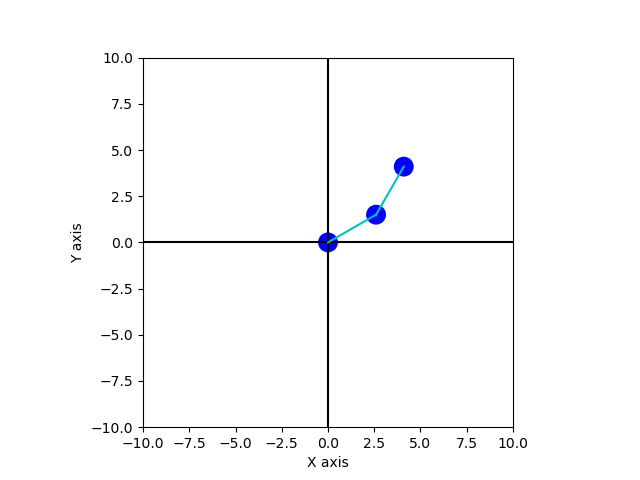
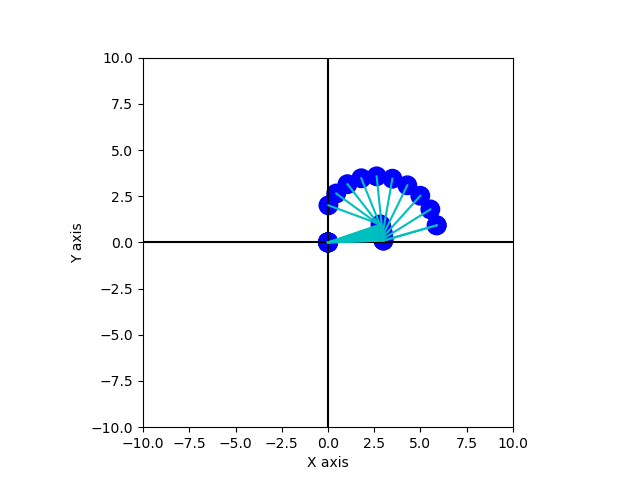
2.3.4 Merge with traj planning

Changed region(s): [[0.5, 0.3125, 0.7188, 0.5312]]

diff --git a/app/main.cpp b/app/main.cpp
@@ -1,6 +1,51 @@
 #include <iostream>
+#include <arm.hpp>
+#include <path_planner.hpp>
+#include <vector>
+#include <utils.hpp>
 
 int main()
 {
+    std::vector<double> links = {3,3};
+    Arm2D twoD(2,links);
+
+    std::vector<std::vector<double>> target_state = twoD.IK({{0,2}});
+    std::vector<double> goal = target_state[0];
+    std::vector<double> start = {0,0};
+    PathPlanner Planner(&twoD,start,goal);
+
+    std::vector<std::vector<double>> plan = Planner.plan();
+    std::vector<std::vector<double>> eef_pos;
+    std::vector<std::vector<double>> all_joints_pos;
+    std::vector<double> all_joints_step;
+    // std::vector<double> eef_step;
+
+    double x,y;
+
+    for(int i = 0; i<10 ;i++){
+
+        auto eef_step = twoD.FK(plan[i]);
+        eef_pos.emplace_back(eef_step);
+        x = links[0]* cos(plan[i][0]);
+        y = links[0]* sin(plan[i][0]);
+
+        all_joints_step.clear();
+        all_joints_step.emplace_back(x);
+        all_joints_step.emplace_back(y);
+        all_joints_step.emplace_back(eef_step[0]);
+        all_joints_step.emplace_back(eef_step[1]);
+
+        all_joints_pos.emplace_back(all_joints_step); // {{x1,y1,x2,y2}{x1,y1,x2,y2}{x1,y1,x2,y2}{x1,y1,x2,y2}}
+    }
+
+    std::vector<utils::pose_type> arm_traj;
+    for (auto& joint_pos: all_joints_pos) {
+        std::vector<double> joint1{joint_pos.at(0), joint_pos.at(1)};
+        std::vector<double> joint2{joint_pos.at(2), joint_pos.at(3)};
+        utils::pose_type joints_pos{joint1, joint2};
+        arm_traj.emplace_back(joints_pos);
+    }
+    utils::create_arm_traj_YAML(2, links, arm_traj);
+
     return 0;
 }
